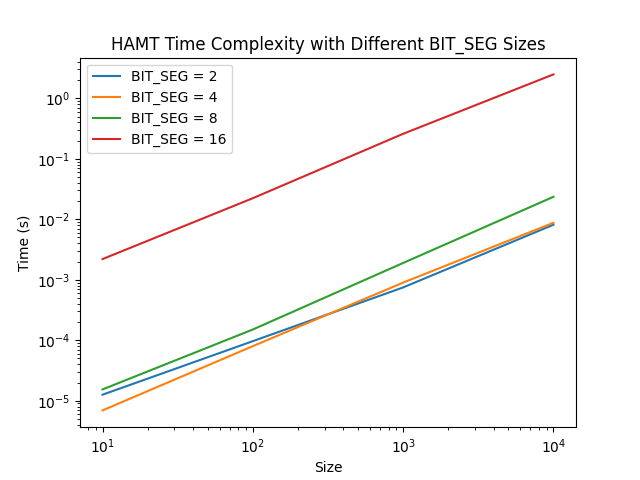
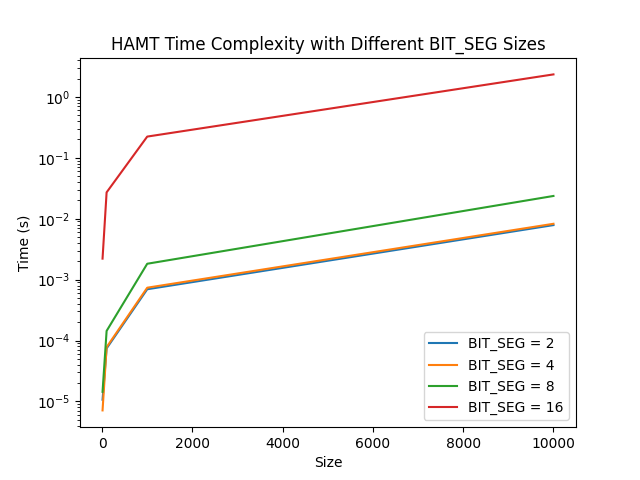
bf

diff --git a/hamt_experiments.py b/hamt_experiments.py
@@ -1,6 +1,7 @@
 import ctypes
 import time
 import matplotlib.pyplot as plt
+import numpy as np
 import tracemalloc
 
 # Load the shared libraries
@@ -24,11 +25,11 @@ liblinkedlist.searchLinkedListSTD.restype = ctypes.c_int
 
 # Define the C functions for HAMT linked list
 liblinkedlisthamt.createLinkedListHAMT.restype = ctypes.POINTER(LinkedListHAMT)
-liblinkedlisthamt.addLinkedListHAMT.argtypes = [ctypes.POINTER(LinkedListHAMT), ctypes.c_int, ctypes.c_int]
-liblinkedlisthamt.updateLinkedListHAMT.argtypes = [ctypes.POINTER(LinkedListHAMT), ctypes.c_int, ctypes.c_int]
-liblinkedlisthamt.deleteLinkedListHAMT.argtypes = [ctypes.POINTER(LinkedListHAMT), ctypes.c_int]
-liblinkedlisthamt.searchLinkedListHAMT.argtypes = [ctypes.POINTER(LinkedListHAMT), ctypes.c_int]
-liblinkedlisthamt.searchLinkedListHAMT.restype = ctypes.c_int
+liblinkedlisthamt.ll_add.argtypes = [ctypes.POINTER(LinkedListHAMT), ctypes.c_int, ctypes.c_int]
+liblinkedlisthamt.ll_update.argtypes = [ctypes.POINTER(LinkedListHAMT), ctypes.c_int, ctypes.c_int]
+liblinkedlisthamt.ll_delete.argtypes = [ctypes.POINTER(LinkedListHAMT), ctypes.c_int]
+liblinkedlisthamt.ll_search.argtypes = [ctypes.POINTER(LinkedListHAMT), ctypes.c_int]
+liblinkedlisthamt.ll_search.restype = ctypes.c_int
 
 # Helper function to measure time
 def measure_time(func, *args):
@@ -39,7 +40,7 @@ def measure_time(func, *args):
 
 # Experiment 1: Time complexity of std linked list vs HAMT
 def experiment_time_complexity():
-    sizes = [10, 100, 1000, 10000, 100000]
+    sizes = [10, 100, 1000, 10000, 100000, 1000000, 10000000, 100000000]
     std_times = []
     hamt_times = []
 
@@ -51,7 +52,7 @@ def experiment_time_complexity():
 
         # Measure time for HAMT linked list
         ll_hamt = liblinkedlisthamt.createLinkedListHAMT()
-        hamt_time = sum(measure_time(liblinkedlisthamt.addLinkedListHAMT, ll_hamt, i, i) for i in range(size))
+        hamt_time = sum(measure_time(liblinkedlisthamt.ll_add, ll_hamt, i, i) for i in range(size))
         hamt_times.append(hamt_time)
 
     # Plot results
@@ -60,8 +61,6 @@ def experiment_time_complexity():
     plt.plot(sizes, hamt_times, label='HAMT Linked List')
     plt.xlabel('Size')
     plt.ylabel('Time (s)')
-    plt.xscale('log')
-    plt.yscale('log')
     plt.title('Time Complexity')
     plt.legend()
     plt.savefig('time_complexity.png')
@@ -69,7 +68,7 @@ def experiment_time_complexity():
 
 # Experiment 2: Space complexity of std linked list vs HAMT
 def experiment_space_complexity():
-    sizes = [10, 100, 1000, 10000, 100000]
+    sizes = [10, 100, 1000, 10000]
     std_spaces = []
     hamt_spaces = []
 
@@ -90,7 +89,7 @@ def experiment_space_complexity():
         # Measure space for HAMT linked list
         ll_hamt = liblinkedlisthamt.createLinkedListHAMT()
         for i in range(size):
-            liblinkedlisthamt.addLinkedListHAMT(ll_hamt, i, i)
+            liblinkedlisthamt.ll_add(ll_hamt, i, i)
         snapshot_hamt = tracemalloc.take_snapshot()
         hamt_space = sum(stat.size for stat in snapshot_hamt.statistics('filename'))
         hamt_spaces.append(hamt_space)
@@ -103,7 +102,6 @@ def experiment_space_complexity():
     plt.plot(sizes, hamt_spaces, label='HAMT Linked List')
     plt.xlabel('Size')
     plt.ylabel('Space (bytes)')
-    plt.xscale('log')
     plt.title('Space Complexity')
     plt.legend()
     plt.savefig('space_complexity.png')
@@ -112,7 +110,7 @@ def experiment_space_complexity():
 # Experiment 3: Time complexity of HAMT operations over different BIT_SEG sizes
 def experiment_bit_seg_time_complexity():
     bit_segs = [2, 4, 8, 16]
-    sizes = [10, 100, 1000, 10000]
+    sizes = [10, 100, 1000]
     times = {bit_seg: [] for bit_seg in bit_segs}
 
     for bit_seg in bit_segs:
@@ -120,7 +118,7 @@ def experiment_bit_seg_time_complexity():
             # Assuming BIT_SEG is globally changeable in the C library
             ctypes.c_int.in_dll(liblinkedlisthamt, 'BIT_SEG').value = bit_seg
             ll_hamt = liblinkedlisthamt.createLinkedListHAMT()
-            hamt_time = sum(measure_time(liblinkedlisthamt.addLinkedListHAMT, ll_hamt, i, i) for i in range(size))
+            hamt_time = sum(measure_time(liblinkedlisthamt.ll_add, ll_hamt, i, i) for i in range(size))
             times[bit_seg].append(hamt_time)
 
     # Plot results
@@ -129,7 +127,6 @@ def experiment_bit_seg_time_complexity():
         plt.plot(sizes, time_values, label=f'BIT_SEG = {bit_seg}')
     plt.xlabel('Size')
     plt.ylabel('Time (s)')
-    plt.xscale('log')
     plt.yscale('log')
     plt.title('HAMT Time Complexity with Different BIT_SEG Sizes')
     plt.legend()
@@ -138,4 +135,5 @@ def experiment_bit_seg_time_complexity():
 
 if __name__ == "__main__":
     experiment_time_complexity()
+    experiment_space_complexity()
     experiment_bit_seg_time_complexity()

diff --git a/linked_list_hamt.c b/linked_list_hamt.c
@@ -1,35 +1,63 @@
-#include <stdio.h>
-#include <stdlib.h>
 #include "linked_list_hamt.h"
 
+// Create a new linked list using HAMT
 LinkedListHAMT* createLinkedListHAMT() {
     LinkedListHAMT* list = (LinkedListHAMT*)malloc(sizeof(LinkedListHAMT));
     list->vhamt = createVersionedHAMT();
     list->version = 0;
+    list->size = 0;
     return list;
 }
 
-void addLinkedListHAMT(LinkedListHAMT* list, int index, int data) {
+// Add a node at a specific index
+void ll_add(LinkedListHAMT* list, int index, int data) {
+    if (index < 0 || index > list->size) {
+        fprintf(stderr, "Index out of bounds\n");
+        return;
+    }
+
     insertVersion(list->vhamt, index, data, list->version);
-    list->version++;
+    list->version = list->vhamt->versionCount - 1;
+    list->size++;
 }
 
-void updateLinkedListHAMT(LinkedListHAMT* list, int index, int newData) {
-    SearchResult result = searchVersion(list->vhamt, index, list->version - 1);
+// Update data at a specific index
+void ll_update(LinkedListHAMT* list, int index, int newData) {
+    if (index < 0 || index >= list->size) {
+        fprintf(stderr, "Index out of bounds\n");
+        return;
+    }
+
+    SearchResult result = searchVersion(list->vhamt, index, list->version);
     if (result.valueCount > 0) {
         updateVersion(list->vhamt, index, result.values[0], newData, list->version);
-        list->version++;
+        list->version = list->vhamt->versionCount - 1;
     }
 }
 
-void deleteLinkedListHAMT(LinkedListHAMT* list, int index) {
-    SearchResult result = searchVersion(list->vhamt, index, list->version - 1);
+// Delete a node at a specific index
+void ll_delete(LinkedListHAMT* list, int index) {
+    if (index < 0 || index >= list->size) {
+        fprintf(stderr, "Index out of bounds\n");
+        return;
+    }
+
+    SearchResult result = searchVersion(list->vhamt, index, list->version);
     if (result.valueCount > 0) {
         deleteVersion(list->vhamt, index, result.values[0], list->version);
-        list->version++;
+        list->version = list->vhamt->versionCount - 1;
+        list->size--;
     }
 }
 
-SearchResult searchLinkedListHAMT(LinkedListHAMT* list, int data) {
-    return searchVersion(list->vhamt, data, list->version - 1);
+// Search for a node with the given data
+SearchResult ll_search(LinkedListHAMT* list, int data) {
+    for (int i = 0; i < list->size; i++) {
+        SearchResult result = searchVersion(list->vhamt, i, list->version);
+        if (result.valueCount > 0 && result.values[0] == data) {
+            return result;
+        }
+    }
+    SearchResult emptyResult = {NULL, 0};
+    return emptyResult; // Node not found
 }

diff --git a/linked_list_hamt.h b/linked_list_hamt.h
@@ -6,12 +6,13 @@
 typedef struct LinkedListHAMT {
     VersionedHAMT* vhamt;
     int version;
+    int size;
 } LinkedListHAMT;
 
 LinkedListHAMT* createLinkedListHAMT();
-void addLinkedListHAMT(LinkedListHAMT* list, int index, int data);
-void updateLinkedListHAMT(LinkedListHAMT* list, int index, int newData);
-void deleteLinkedListHAMT(LinkedListHAMT* list, int index);
-SearchResult searchLinkedListHAMT(LinkedListHAMT* list, int data);
+void ll_add(LinkedListHAMT* list, int index, int data);
+void ll_update(LinkedListHAMT* list, int index, int newData);
+void ll_delete(LinkedListHAMT* list, int index);
+SearchResult ll_search(LinkedListHAMT* list, int data);
 
 #endif // LINKED_LIST_HAMT_H
